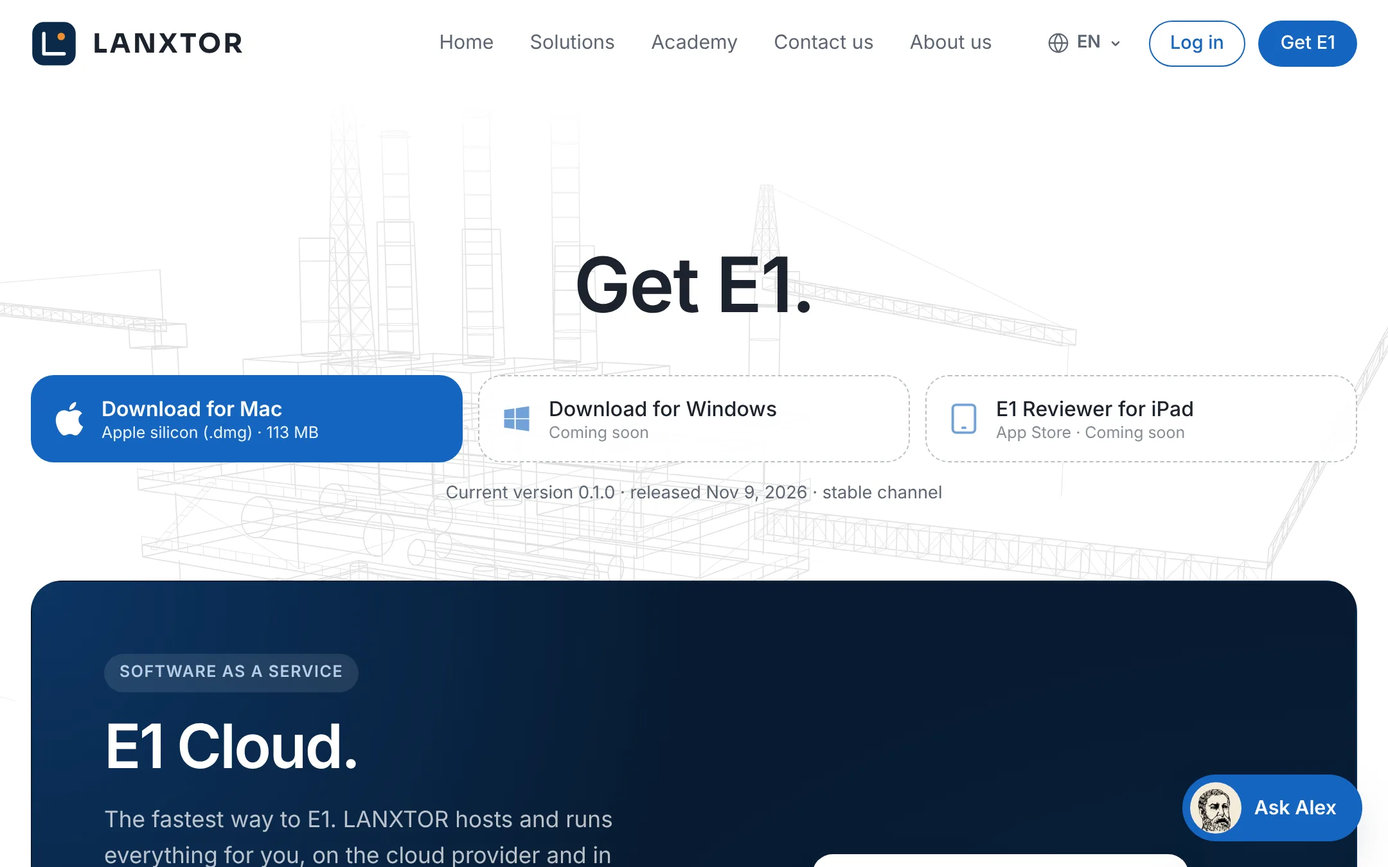
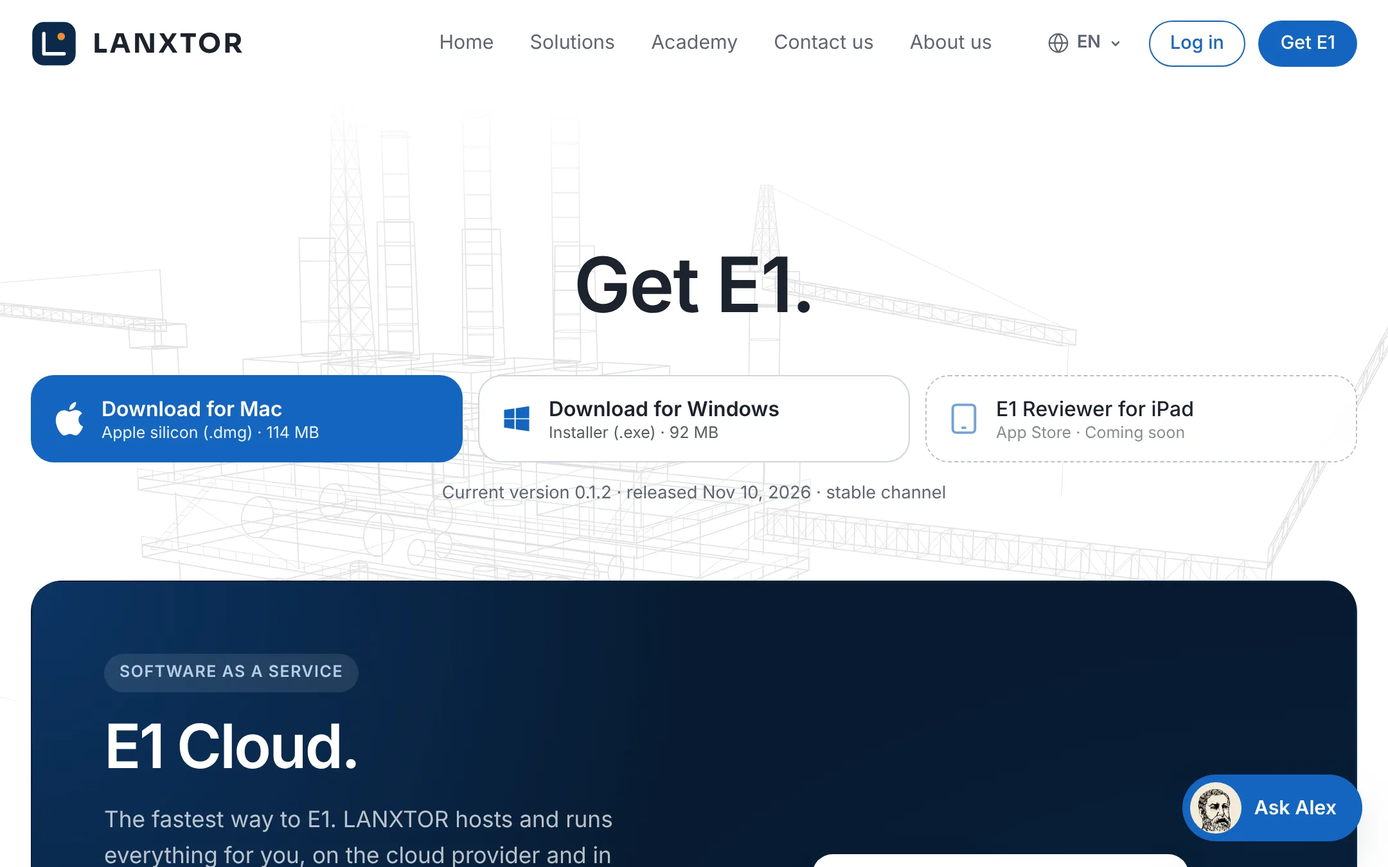
Guide and downloads: Windows released, E1 0.1.2 for Windows and macOS
ACC-desktop-app is available: steps for Get E1 (Download for Mac,
Download for Windows), installing on each system (SmartScreen: More
info, publisher Lanxtor LLC, Run anyway), Use E1 Cloud, sign-in; new
screenshot of Get E1 with 0.1.2. WEB download steps updated. The local
release list (fallback) matches the downloads storage, with the iPad's
App Store entry.

Claude-Session: https://claude.ai/code/session_011w3qqgLcHbW4PP2YAyRFWk

Changed region(s): [[0.3102, 0.56, 0.6824, 0.5911], [0.3412, 0.4667, 0.5583, 0.5289]]

diff --git a/guide-access.html b/guide-access.html
@@ -59,13 +59,13 @@
         <p class="guide-crumbs"><a href="account.html#academy-guides">Academy</a> / <a href="guide.html">User guide</a> / Installation and sign-in</p>
         <h1>2. Installation and sign-in</h1>
         <p class="lead">Open E1 in the browser or the desktop app, sign in with your company account or Microsoft, passkeys, sessions and the store E1 runs on.</p>
-        <div class="g-meta"><span>14 features</span><span>12 available</span><span>Guide updated 2026-11-07</span></div>
+        <div class="g-meta"><span>14 features</span><span>13 available</span><span>Guide updated 2026-11-07</span></div>
 <section class="g-feature" id="access-overview">
   <h2>About this guide</h2>
   <p class="g-summary">This guide covers how you get into E1: opening it in the browser or the desktop app, signing in with your company account or with Microsoft, passkeys and the "Confirm it is you" check, how long a sign-in lasts, trials, and how to see which store and cloud E1 runs on.</p>
   <h3>The usual order</h3>
   <ol>
-    <li>Open E1 <a href="#acc-browser">in the browser</a> (or, once it is released, <a href="#acc-desktop-app">the desktop app</a>).</li>
+    <li>Open E1 <a href="#acc-browser">in the browser</a> or in <a href="#acc-desktop-app">the desktop app</a> for Windows and macOS.</li>
     <li><a href="#acc-sign-in">Sign in</a>, or <a href="#acc-microsoft">sign in with your company's Microsoft account</a>. On a new installation, the first sign-in <a href="#acc-claim-installation">claims it</a>. If sign-in is refused, see <a href="#acc-sign-in-problems">When sign-in is refused</a>.</li>
     <li><a href="#acc-passkeys">Add a passkey</a>: it signs you in faster and is needed for administrator roles. Learn when E1 asks you to <a href="#acc-step-up">confirm it is you</a>.</li>
     <li>Know <a href="#acc-session">how long a sign-in lasts and how to sign out</a>, and what happens when <a href="#acc-trial">a trial</a> ends.</li>
@@ -100,24 +100,27 @@
 
 <section class="g-feature" id="acc-desktop-app">
   <h2>The desktop app for Windows and macOS</h2>
-  <div class="g-meta"><span class="g-status under-development">Under development</span><span class="g-id">ACC-desktop-app</span><span>Roadmap M4.19</span></div>
-  <p class="g-summary">E1 will come as a desktop app for Windows 10 or 11 (64-bit, also Arm) and macOS 12 or newer. The macOS installer for Apple silicon is released (signed and notarized by Apple) and keeps itself <a href="#acc-desktop-updates">up to date</a>; the Windows and Intel Mac installers are not released yet, so use E1 in the browser on those until then.</p>
+  <div class="g-meta"><span class="g-status available">Available</span><span class="g-id">ACC-desktop-app</span><span>Roadmap M4.19</span></div>
+  <p class="g-summary">E1 is a desktop app for Windows 10 or 11 (64-bit) and for Macs with Apple silicon (macOS 12 or newer). Both are signed (Windows by Lanxtor LLC, macOS by Lanxtor, LLC and notarized by Apple) and keep themselves <a href="#acc-desktop-updates">up to date</a>. Installers for Intel Macs and Windows on Arm follow; use E1 in the browser on those until then.</p>
   <dl class="g-facts">
     <dt>Where</dt><dd>Website → <span class="ui">Get E1</span> → the download buttons at the top (<span class="ui">Download for Mac</span>, <span class="ui">Download for Windows</span>); account page → <span class="ui">Downloads</span></dd>
     <dt>Who</dt><dd>Anyone with an E1 account</dd>
-    <dt>Before you start</dt><dd>Windows or macOS. Linux and tablets use the browser.</dd>
+    <dt>Before you start</dt><dd>Windows 10 or 11 (64-bit), or a Mac with Apple silicon. Linux, Intel Macs and tablets use the browser.</dd>
   </dl>
-  <div class="g-dev"><p><strong>Under development (roadmap stage PR, pilot readiness: "signed desktop app").</strong> On Get E1, <span class="ui">Download for Mac</span> downloads <span class="ui">Apple silicon (.dmg)</span>; <span class="ui">Download for Windows</span> reads <span class="ui">Coming soon</span>. Below: "Current version 0.1.0 · released Nov 9, 2026 · stable channel". Development builds of the app already work as described below.</p></div>
-  <h3>What you will be able to do</h3>
-  <ul>
-    <li>Download <span class="ui">Installer (.exe)</span> or <span class="ui">Installer for Arm (.exe)</span> for Windows, or <span class="ui">Apple silicon (.dmg)</span> or <span class="ui">Intel (.dmg)</span> for macOS. Your own system is shown first (on the account page marked <span class="ui">Your system</span>).</li>
-    <li>At the first start, connect the app to its server on the page <span class="ui">Connect E1 to its server</span>: "E1 keeps projects on a server: E1 Cloud, run by LANXTOR, or your organization's own. You sign in next." Click <span class="ui">Use E1 Cloud</span> (app.lanxtor.com) for E1 Cloud. For your organization's own server, type its address under "or your organization's server" in <span class="ui">Server address</span> (for example https://e1.example.com) and click <span class="ui">Connect</span>. The app restarts on that server and remembers it.</li>
-    <li>Sign in with the same sign-in screen and the same account as in the browser.</li>
-    <li>Use floating windows as real windows; the app opens them again where they were at the next start.</li>
-  </ul>
+  <h3>Steps</h3>
+  <div class="g-table-wrap"><table class="g-steps">
+    <thead><tr><th>#</th><th>Action</th><th>Expected result</th></tr></thead>
+    <tbody>
+      <tr><td>1</td><td>On the website, click <span class="ui">Get E1</span>.</td><td>Under "Get E1.", the buttons <span class="ui">Download for Mac</span> ("Apple silicon (.dmg) · 114 MB") and <span class="ui">Download for Windows</span> ("Installer (.exe) · 92 MB"); your own system first, in blue. Under them: "Current version 0.1.2 · released Nov 10, 2026 · stable channel".</td></tr>
+      <tr><td>2</td><td>Mac: click <span class="ui">Download for Mac</span>, open the .dmg and drag <span class="ui">Lanxtor E1</span> into <span class="ui">Applications</span>; open it from there.</td><td>macOS may ask once whether to open an app downloaded from the internet; click <span class="ui">Open</span>. No warning about an unidentified developer.</td></tr>
+      <tr><td>3</td><td>Windows: click <span class="ui">Download for Windows</span> and run <span class="ui">E1-Setup-0.1.2.exe</span>.</td><td>It installs and starts <span class="ui">Lanxtor E1</span>. While the installer is new, Windows may show "Windows protected your PC": click <span class="ui">More info</span>; the publisher is Lanxtor LLC; click <span class="ui">Run anyway</span>.</td></tr>
+      <tr><td>4</td><td>At the first start, on <span class="ui">Connect E1 to its server</span>, click <span class="ui">Use E1 Cloud</span>. For your organization's own server, type its address under "or your organization's server" in <span class="ui">Server address</span> (for example https://e1.example.com) and click <span class="ui">Connect</span>.</td><td>"E1 keeps projects on a server: E1 Cloud, run by LANXTOR, or your organization's own. You sign in next." The app restarts on that server, remembers it, and shows the sign-in.</td></tr>
+      <tr><td>5</td><td>Sign in.</td><td>The same sign-in screen and the same account as in the browser; your projects are there. Floating windows are real windows and open again where they were at the next start.</td></tr>
+    </tbody>
+  </table></div>
   <p>Wrong addresses are refused with "That is not an address. Enter one like https://e1.example.com.", "The address starts with https://." or "Use https:// for a server that is not on this computer."</p>
-  <figure class="g-shot" style="max-width:1080px"><img src="assets/img/guides/web-account-downloads.webp" alt="Downloads on the account page: Windows (Windows 10 or 11, 64-bit) and macOS (macOS 12 or newer), each with installer buttons that say Coming soon" width="2160" height="1350" loading="lazy"><figcaption>Downloads on the account page: the installer buttons say <span class="ui">Coming soon</span>.</figcaption></figure>
-  <p class="g-warn">The app's window title is "Lanxtor E1". On Windows the system menu bar hides itself; use E1's own menu bar inside the window. The plan is to sign in through your system browser; today the app shows the server's sign-in inside its own window.</p>
+  <figure class="g-shot" style="max-width:1080px"><img src="assets/img/guides/web-download.webp" alt="The Get E1 page: Download for Mac (Apple silicon, 114 MB), Download for Windows (Installer, 92 MB) and E1 Reviewer for iPad (App Store, coming soon), with the current version 0.1.2 below" width="2160" height="1350" loading="lazy"><figcaption>Get E1: the download buttons, your own system first.</figcaption></figure>
+  <p class="g-warn">The app's window title is "Lanxtor E1". On Windows the system menu bar hides itself; use E1's own menu bar inside the window. The plan is to sign in through your system browser; today the app shows the server's sign-in inside its own window. The app has no way yet to switch to another server after the first start.</p>
   <p class="g-related">Related: <a href="#acc-browser">Open E1 in the browser</a> · <a href="#acc-sign-in">Sign in to E1</a> · <a href="#acc-desktop-updates">Keep the desktop app up to date</a> · <a href="guide-getting-started.html#gs-floating-windows">Floating windows</a></p>
 </section>
 

diff --git a/tools/guides/src/access.html b/tools/guides/src/access.html
@@ -3,7 +3,7 @@
   <p class="g-summary">This guide covers how you get into E1: opening it in the browser or the desktop app, signing in with your company account or with Microsoft, passkeys and the "Confirm it is you" check, how long a sign-in lasts, trials, and how to see which store and cloud E1 runs on.</p>
   <h3>The usual order</h3>
   <ol>
-    <li>Open E1 <a href="#acc-browser">in the browser</a> (or, once it is released, <a href="#acc-desktop-app">the desktop app</a>).</li>
+    <li>Open E1 <a href="#acc-browser">in the browser</a> or in <a href="#acc-desktop-app">the desktop app</a> for Windows and macOS.</li>
     <li><a href="#acc-sign-in">Sign in</a>, or <a href="#acc-microsoft">sign in with your company's Microsoft account</a>. On a new installation, the first sign-in <a href="#acc-claim-installation">claims it</a>. If sign-in is refused, see <a href="#acc-sign-in-problems">When sign-in is refused</a>.</li>
     <li><a href="#acc-passkeys">Add a passkey</a>: it signs you in faster and is needed for administrator roles. Learn when E1 asks you to <a href="#acc-step-up">confirm it is you</a>.</li>
     <li>Know <a href="#acc-session">how long a sign-in lasts and how to sign out</a>, and what happens when <a href="#acc-trial">a trial</a> ends.</li>
@@ -38,24 +38,27 @@
 
 <section class="g-feature" id="acc-desktop-app">
   <h2>The desktop app for Windows and macOS</h2>
-  <div class="g-meta"><span class="g-status under-development">Under development</span><span class="g-id">ACC-desktop-app</span><span>Roadmap M4.19</span></div>
-  <p class="g-summary">E1 will come as a desktop app for Windows 10 or 11 (64-bit, also Arm) and macOS 12 or newer. The macOS installer for Apple silicon is released (signed and notarized by Apple) and keeps itself <a href="#acc-desktop-updates">up to date</a>; the Windows and Intel Mac installers are not released yet, so use E1 in the browser on those until then.</p>
+  <div class="g-meta"><span class="g-status available">Available</span><span class="g-id">ACC-desktop-app</span><span>Roadmap M4.19</span></div>
+  <p class="g-summary">E1 is a desktop app for Windows 10 or 11 (64-bit) and for Macs with Apple silicon (macOS 12 or newer). Both are signed (Windows by Lanxtor LLC, macOS by Lanxtor, LLC and notarized by Apple) and keep themselves <a href="#acc-desktop-updates">up to date</a>. Installers for Intel Macs and Windows on Arm follow; use E1 in the browser on those until then.</p>
   <dl class="g-facts">
     <dt>Where</dt><dd>Website → <span class="ui">Get E1</span> → the download buttons at the top (<span class="ui">Download for Mac</span>, <span class="ui">Download for Windows</span>); account page → <span class="ui">Downloads</span></dd>
     <dt>Who</dt><dd>Anyone with an E1 account</dd>
-    <dt>Before you start</dt><dd>Windows or macOS. Linux and tablets use the browser.</dd>
+    <dt>Before you start</dt><dd>Windows 10 or 11 (64-bit), or a Mac with Apple silicon. Linux, Intel Macs and tablets use the browser.</dd>
   </dl>
-  <div class="g-dev"><p><strong>Under development (roadmap stage PR, pilot readiness: "signed desktop app").</strong> On Get E1, <span class="ui">Download for Mac</span> downloads <span class="ui">Apple silicon (.dmg)</span>; <span class="ui">Download for Windows</span> reads <span class="ui">Coming soon</span>. Below: "Current version 0.1.0 · released Nov 9, 2026 · stable channel". Development builds of the app already work as described below.</p></div>
-  <h3>What you will be able to do</h3>
-  <ul>
-    <li>Download <span class="ui">Installer (.exe)</span> or <span class="ui">Installer for Arm (.exe)</span> for Windows, or <span class="ui">Apple silicon (.dmg)</span> or <span class="ui">Intel (.dmg)</span> for macOS. Your own system is shown first (on the account page marked <span class="ui">Your system</span>).</li>
-    <li>At the first start, connect the app to its server on the page <span class="ui">Connect E1 to its server</span>: "E1 keeps projects on a server: E1 Cloud, run by LANXTOR, or your organization's own. You sign in next." Click <span class="ui">Use E1 Cloud</span> (app.lanxtor.com) for E1 Cloud. For your organization's own server, type its address under "or your organization's server" in <span class="ui">Server address</span> (for example https://e1.example.com) and click <span class="ui">Connect</span>. The app restarts on that server and remembers it.</li>
-    <li>Sign in with the same sign-in screen and the same account as in the browser.</li>
-    <li>Use floating windows as real windows; the app opens them again where they were at the next start.</li>
-  </ul>
+  <h3>Steps</h3>
+  <div class="g-table-wrap"><table class="g-steps">
+    <thead><tr><th>#</th><th>Action</th><th>Expected result</th></tr></thead>
+    <tbody>
+      <tr><td>1</td><td>On the website, click <span class="ui">Get E1</span>.</td><td>Under "Get E1.", the buttons <span class="ui">Download for Mac</span> ("Apple silicon (.dmg) · 114 MB") and <span class="ui">Download for Windows</span> ("Installer (.exe) · 92 MB"); your own system first, in blue. Under them: "Current version 0.1.2 · released Nov 10, 2026 · stable channel".</td></tr>
+      <tr><td>2</td><td>Mac: click <span class="ui">Download for Mac</span>, open the .dmg and drag <span class="ui">Lanxtor E1</span> into <span class="ui">Applications</span>; open it from there.</td><td>macOS may ask once whether to open an app downloaded from the internet; click <span class="ui">Open</span>. No warning about an unidentified developer.</td></tr>
+      <tr><td>3</td><td>Windows: click <span class="ui">Download for Windows</span> and run <span class="ui">E1-Setup-0.1.2.exe</span>.</td><td>It installs and starts <span class="ui">Lanxtor E1</span>. While the installer is new, Windows may show "Windows protected your PC": click <span class="ui">More info</span>; the publisher is Lanxtor LLC; click <span class="ui">Run anyway</span>.</td></tr>
+      <tr><td>4</td><td>At the first start, on <span class="ui">Connect E1 to its server</span>, click <span class="ui">Use E1 Cloud</span>. For your organization's own server, type its address under "or your organization's server" in <span class="ui">Server address</span> (for example https://e1.example.com) and click <span class="ui">Connect</span>.</td><td>"E1 keeps projects on a server: E1 Cloud, run by LANXTOR, or your organization's own. You sign in next." The app restarts on that server, remembers it, and shows the sign-in.</td></tr>
+      <tr><td>5</td><td>Sign in.</td><td>The same sign-in screen and the same account as in the browser; your projects are there. Floating windows are real windows and open again where they were at the next start.</td></tr>
+    </tbody>
+  </table></div>
   <p>Wrong addresses are refused with "That is not an address. Enter one like https://e1.example.com.", "The address starts with https://." or "Use https:// for a server that is not on this computer."</p>
-  <figure class="g-shot"><img src="assets/img/guides/web-account-downloads.webp" alt="Downloads on the account page: Windows (Windows 10 or 11, 64-bit) and macOS (macOS 12 or newer), each with installer buttons that say Coming soon" width="2160" height="1350" loading="lazy"><figcaption>Downloads on the account page: the installer buttons say <span class="ui">Coming soon</span>.</figcaption></figure>
-  <p class="g-warn">The app's window title is "Lanxtor E1". On Windows the system menu bar hides itself; use E1's own menu bar inside the window. The plan is to sign in through your system browser; today the app shows the server's sign-in inside its own window.</p>
+  <figure class="g-shot"><img src="assets/img/guides/web-download.webp" alt="The Get E1 page: Download for Mac (Apple silicon, 114 MB), Download for Windows (Installer, 92 MB) and E1 Reviewer for iPad (App Store, coming soon), with the current version 0.1.2 below" width="2160" height="1350" loading="lazy"><figcaption>Get E1: the download buttons, your own system first.</figcaption></figure>
+  <p class="g-warn">The app's window title is "Lanxtor E1". On Windows the system menu bar hides itself; use E1's own menu bar inside the window. The plan is to sign in through your system browser; today the app shows the server's sign-in inside its own window. The app has no way yet to switch to another server after the first start.</p>
   <p class="g-related">Related: <a href="#acc-browser">Open E1 in the browser</a> · <a href="#acc-sign-in">Sign in to E1</a> · <a href="#acc-desktop-updates">Keep the desktop app up to date</a> · <a href="guide-getting-started.html#gs-floating-windows">Floating windows</a></p>
 </section>
 

diff --git a/guide-features.html b/guide-features.html
@@ -73,7 +73,7 @@
             <tr data-status="available" data-cat="getting-started"><td class="g-id">GS-units</td><td><a href="guide-getting-started.html#gs-units">Units of measurement</a><br><span class="muted">The status bar shows the project&#x27;s unit system and opens Project settings, where it is chosen.</span></td><td>Getting started</td><td><span class="g-status available">Available</span></td><td class="g-date">2026-11-09</td><td class="g-date"></td><td>01.2b</td><td>L26</td><td>Units of measurement</td></tr>
             <tr data-status="planned" data-cat="getting-started"><td class="g-id">GS-messages</td><td><a href="guide-getting-started.html#gs-messages">Messages</a><br><span class="muted">Direct messages between people; not connected yet and no button on the screen.</span></td><td>Getting started</td><td><span class="g-status planned">Planned</span></td><td class="g-date"></td><td class="g-date">2026-11-09</td><td></td><td></td><td>Messages</td></tr>
             <tr data-status="available" data-cat="access"><td class="g-id">ACC-browser</td><td><a href="guide-access.html#acc-browser">Open E1 in the browser</a><br><span class="muted">Use E1 in the browser with nothing to install, on any computer or tablet.</span></td><td>Installation and sign-in</td><td><span class="g-status available">Available</span></td><td class="g-date"></td><td class="g-date"></td><td></td><td></td><td>Opening E1 in the browser</td></tr>
-            <tr data-status="under-development" data-cat="access"><td class="g-id">ACC-desktop-app</td><td><a href="guide-access.html#acc-desktop-app">The desktop app for Windows and macOS</a><br><span class="muted">A desktop app for Windows and macOS that connects to E1 Cloud or your organization&#x27;s server; the macOS app for Apple silicon is released, Windows and Intel Macs follow.</span></td><td>Installation and sign-in</td><td><span class="g-status under-development">Under development</span></td><td class="g-date"></td><td class="g-date"></td><td>M4.19</td><td></td><td>Installing the desktop app</td></tr>
+            <tr data-status="available" data-cat="access"><td class="g-id">ACC-desktop-app</td><td><a href="guide-access.html#acc-desktop-app">The desktop app for Windows and macOS</a><br><span class="muted">The desktop app for Windows and Macs with Apple silicon, signed, that connects to E1 Cloud or your organization&#x27;s server and keeps itself up to date.</span></td><td>Installation and sign-in</td><td><span class="g-status available">Available</span></td><td class="g-date"></td><td class="g-date"></td><td>M4.19</td><td></td><td>Installing the desktop app</td></tr>
             <tr data-status="available" data-cat="access"><td class="g-id">ACC-desktop-updates</td><td><a href="guide-access.html#acc-desktop-updates">Keep the desktop app up to date</a><br><span class="muted">The desktop app finds a new version by itself, downloads it in the background and asks you to restart; Check for Updates… looks at once.</span></td><td>Installation and sign-in</td><td><span class="g-status available">Available</span></td><td class="g-date"></td><td class="g-date"></td><td></td><td></td><td>Updating the desktop app</td></tr>
             <tr data-status="available" data-cat="access"><td class="g-id">ACC-sign-in</td><td><a href="guide-access.html#acc-sign-in">Sign in to E1</a><br><span class="muted">Sign in with your organization&#x27;s account; the first sign-in creates your account and a personal workspace.</span></td><td>Installation and sign-in</td><td><span class="g-status available">Available</span></td><td class="g-date">2026-11-03</td><td class="g-date">2026-11-08</td><td>M2.2</td><td>Z2</td><td>Signing in to E1</td></tr>
             <tr data-status="available" data-cat="access"><td class="g-id">ACC-microsoft</td><td><a href="guide-access.html#acc-microsoft">Sign in with your company&#x27;s Microsoft account</a><br><span class="muted">Sign in with your work Microsoft account where your company has connected it to E1.</span></td><td>Installation and sign-in</td><td><span class="g-status available">Available</span></td><td class="g-date">2026-11-07</td><td class="g-date">2026-11-08</td><td>09.4</td><td></td><td>Sign in with Microsoft</td></tr>

diff --git a/guide.html b/guide.html
@@ -47,7 +47,7 @@
         <p class="guide-crumbs"><a href="account.html#academy-guides">Academy</a> / <a href="guide.html">User guide</a></p>
         <h1>E1 user guide</h1>
         <p class="lead">How to use E1, feature by feature: where each feature is, what to do step by step, what you should see, and whether it is available today or still being built.</p>
-        <div class="g-meta"><span>284 features</span><span>228 available</span><span>15 under development</span><span>21 planned</span><span>5 placeholder</span><span>12 preview data only</span><span>3 parked</span><span>Guide updated 2026-11-07</span></div>
+        <div class="g-meta"><span>284 features</span><span>229 available</span><span>14 under development</span><span>21 planned</span><span>5 placeholder</span><span>12 preview data only</span><span>3 parked</span><span>Guide updated 2026-11-07</span></div>
         <div class="g-intro">
           <p>Every guide describes one feature the way you meet it on screen: where to find it, who may use it, what to do step by step, and what you should see after each step. The labels in <span class="ui">bold</span> are the exact words on the screen. Each feature carries its status and the date it was delivered or last changed, so you always know whether you are reading about something you can use today.</p>
           <p>The screenshots were taken from E1 on 2026-11-07, in the default dark appearance, with a small demo project (a pump train on one sheet).</p>
@@ -63,7 +63,7 @@
             <svg class="icon" viewBox="0 0 24 24" fill="none" stroke="currentColor" stroke-width="1.5" stroke-linecap="round" stroke-linejoin="round" aria-hidden="true"><path d="M12 3v12M7 10l5 5 5-5"/><path d="M4 21h16"/></svg>
             <h3>2. Installation and sign-in</h3>
             <p>Open E1 in the browser or the desktop app, sign in with your company account or Microsoft, passkeys, sessions and the store E1 runs on.</p>
-            <p class="g-count">14 features · 12 available</p>
+            <p class="g-count">14 features · 13 available</p>
           </a>
           <a class="card" href="guide-projects.html">
             <svg class="icon" viewBox="0 0 24 24" fill="none" stroke="currentColor" stroke-width="1.5" stroke-linecap="round" stroke-linejoin="round" aria-hidden="true"><path d="M3 7h6l2 2h10v10H3z"/></svg>
@@ -173,7 +173,6 @@
           <p>Being built now or planned next. These are described in the guides so you can prepare, but they are not in E1 yet. <a href="guide-roadmap.html">The roadmap</a> shows every stage.</p>
           <ul class="g-news">
             <li><span class="muted"></span><span><a href="guide-getting-started.html#gs-messages">Messages</a> <span class="g-status planned">Planned</span></span></li>
-            <li><span class="muted">M4.19</span><span><a href="guide-access.html#acc-desktop-app">The desktop app for Windows and macOS</a> <span class="g-status under-development">Under development</span></span></li>
             <li><span class="muted">09.4</span><span><a href="guide-access.html#acc-company-sso">Company single sign-on and directory sync</a> <span class="g-status planned">Planned</span></span></li>
             <li><span class="muted">12.1</span><span><a href="guide-objects.html#obj-calculations">Calculations and copy rules on attributes</a> <span class="g-status planned">Planned</span></span></li>
             <li><span class="muted">13.1</span><span><a href="guide-drawing.html#draw-pipelines">Pipelines and completeness checks</a> <span class="g-status planned">Planned</span></span></li>

diff --git a/guide-account.html b/guide-account.html
@@ -316,8 +316,8 @@
   <div class="g-table-wrap"><table class="g-steps">
     <thead><tr><th>#</th><th>Action</th><th>Expected result</th></tr></thead>
     <tbody>
-      <tr><td>1</td><td>Click <span class="ui">Get E1</span> (on a phone, the <span class="ui">Get E1</span> button next to the menu button).</td><td>At the top, under "Get E1.", three buttons in a row: <span class="ui">Download for Mac</span> ("Apple silicon (.dmg) · 113 MB"), <span class="ui">Download for Windows</span> ("Coming soon", dashed until the Windows installer is published) and <span class="ui">E1 Reviewer for iPad</span> ("App Store · Coming soon" until the app is in the App Store; until then it opens the E1 Reviewer guide). Your own system comes first, in blue. Under the buttons: "Current version 0.1.0 · released Nov 9, 2026 · stable channel".</td></tr>
-      <tr><td>2</td><td>Click <span class="ui">Download for Mac</span>.</td><td>The macOS installer downloads straight away. Hold the pointer over the button to see its SHA-256. A button that reads "Coming soon" downloads nothing; none leads to a broken link.</td></tr>
+      <tr><td>1</td><td>Click <span class="ui">Get E1</span> (on a phone, the <span class="ui">Get E1</span> button next to the menu button).</td><td>At the top, under "Get E1.", three buttons in a row: <span class="ui">Download for Mac</span> ("Apple silicon (.dmg) · 114 MB"), <span class="ui">Download for Windows</span> ("Installer (.exe) · 92 MB") and <span class="ui">E1 Reviewer for iPad</span> ("App Store · Coming soon" until the app is in the App Store; until then it opens the E1 Reviewer guide). Your own system comes first, in blue. Under the buttons: "Current version 0.1.2 · released Nov 10, 2026 · stable channel".</td></tr>
+      <tr><td>2</td><td>Click <span class="ui">Download for Mac</span> or <span class="ui">Download for Windows</span>.</td><td>The installer downloads straight away. Hold the pointer over the button to see its SHA-256. A button that reads "Coming soon" downloads nothing; none leads to a broken link.</td></tr>
       <tr><td>3</td><td>To create your account, click <span class="ui">Log in</span> at the top of the page, then <span class="ui">Sign up</span>.</td><td>The sign-up opens. You can also choose <span class="ui">Create account</span> on the sign-in screen when you open E1, or in the <span class="ui">E1 Cloud</span> panel further down.</td></tr>
       <tr><td>4</td><td>On any other computer or a tablet, open your account page and click <span class="ui">Open E1 in the browser</span>.</td><td>E1 opens at app.lanxtor.com.</td></tr>
     </tbody>
@@ -353,7 +353,7 @@
   <h2>Desktop installers for Windows and macOS</h2>
   <div class="g-meta"><span class="g-status planned">Planned</span><span class="g-id">WEB-installers</span><span>Roadmap W4.2</span></div>
   <p class="g-summary">Signed installers for the E1 desktop app: an installer for Windows (also for Arm) and disk images for Apple silicon and Intel Macs.</p>
-  <p class="g-dev">The first signed installers in the release manifest (roadmap W4.2) are not published yet. Until then the buttons on Get E1 read "Coming soon"; use E1 in the browser.</p>
+  <p class="g-note">The installers are signed: on Windows by Lanxtor LLC, on macOS by Lanxtor, LLC and notarized by Apple. Installers for Intel Macs and Windows on Arm, and the iPad app, follow.</p>
   <h3>What you will be able to do</h3>
   <ul>
     <li>Open Get E1 and download the installer for your system, with its size and SHA-256 checksum.</li>

diff --git a/tools/guides/src/account.html b/tools/guides/src/account.html
@@ -246,8 +246,8 @@
   <div class="g-table-wrap"><table class="g-steps">
     <thead><tr><th>#</th><th>Action</th><th>Expected result</th></tr></thead>
     <tbody>
-      <tr><td>1</td><td>Click <span class="ui">Get E1</span> (on a phone, the <span class="ui">Get E1</span> button next to the menu button).</td><td>At the top, under "Get E1.", three buttons in a row: <span class="ui">Download for Mac</span> ("Apple silicon (.dmg) · 113 MB"), <span class="ui">Download for Windows</span> ("Coming soon", dashed until the Windows installer is published) and <span class="ui">E1 Reviewer for iPad</span> ("App Store · Coming soon" until the app is in the App Store; until then it opens the E1 Reviewer guide). Your own system comes first, in blue. Under the buttons: "Current version 0.1.0 · released Nov 9, 2026 · stable channel".</td></tr>
-      <tr><td>2</td><td>Click <span class="ui">Download for Mac</span>.</td><td>The macOS installer downloads straight away. Hold the pointer over the button to see its SHA-256. A button that reads "Coming soon" downloads nothing; none leads to a broken link.</td></tr>
+      <tr><td>1</td><td>Click <span class="ui">Get E1</span> (on a phone, the <span class="ui">Get E1</span> button next to the menu button).</td><td>At the top, under "Get E1.", three buttons in a row: <span class="ui">Download for Mac</span> ("Apple silicon (.dmg) · 114 MB"), <span class="ui">Download for Windows</span> ("Installer (.exe) · 92 MB") and <span class="ui">E1 Reviewer for iPad</span> ("App Store · Coming soon" until the app is in the App Store; until then it opens the E1 Reviewer guide). Your own system comes first, in blue. Under the buttons: "Current version 0.1.2 · released Nov 10, 2026 · stable channel".</td></tr>
+      <tr><td>2</td><td>Click <span class="ui">Download for Mac</span> or <span class="ui">Download for Windows</span>.</td><td>The installer downloads straight away. Hold the pointer over the button to see its SHA-256. A button that reads "Coming soon" downloads nothing; none leads to a broken link.</td></tr>
       <tr><td>3</td><td>To create your account, click <span class="ui">Log in</span> at the top of the page, then <span class="ui">Sign up</span>.</td><td>The sign-up opens. You can also choose <span class="ui">Create account</span> on the sign-in screen when you open E1, or in the <span class="ui">E1 Cloud</span> panel further down.</td></tr>
       <tr><td>4</td><td>On any other computer or a tablet, open your account page and click <span class="ui">Open E1 in the browser</span>.</td><td>E1 opens at app.lanxtor.com.</td></tr>
     </tbody>
@@ -283,7 +283,7 @@
   <h2>Desktop installers for Windows and macOS</h2>
   <div class="g-meta"><span class="g-status planned">Planned</span><span class="g-id">WEB-installers</span><span>Roadmap W4.2</span></div>
   <p class="g-summary">Signed installers for the E1 desktop app: an installer for Windows (also for Arm) and disk images for Apple silicon and Intel Macs.</p>
-  <p class="g-dev">The first signed installers in the release manifest (roadmap W4.2) are not published yet. Until then the buttons on Get E1 read "Coming soon"; use E1 in the browser.</p>
+  <p class="g-note">The installers are signed: on Windows by Lanxtor LLC, on macOS by Lanxtor, LLC and notarized by Apple. Installers for Intel Macs and Windows on Arm, and the iPad app, follow.</p>
   <h3>What you will be able to do</h3>
   <ul>
     <li>Open Get E1 and download the installer for your system, with its size and SHA-256 checksum.</li>
